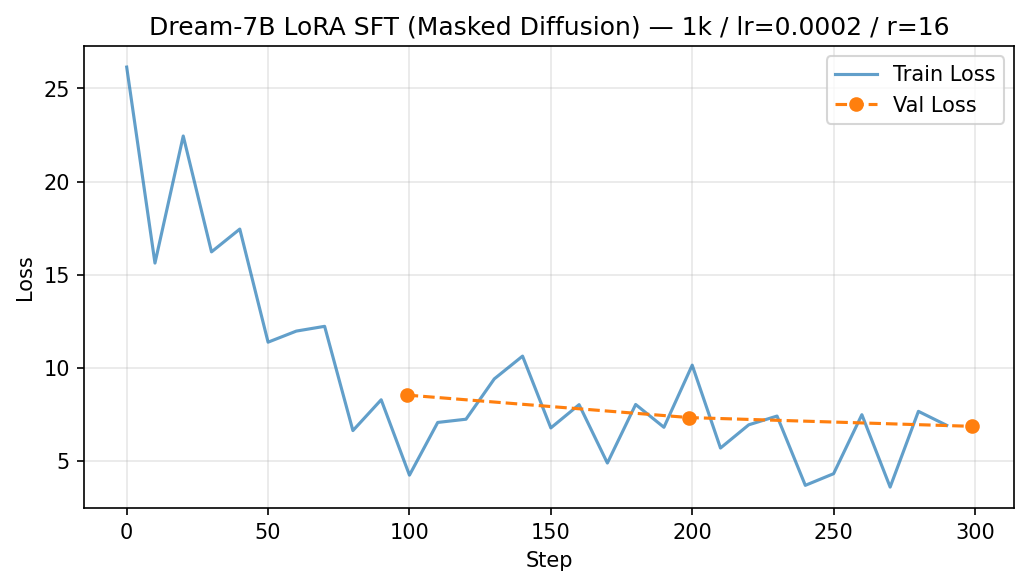
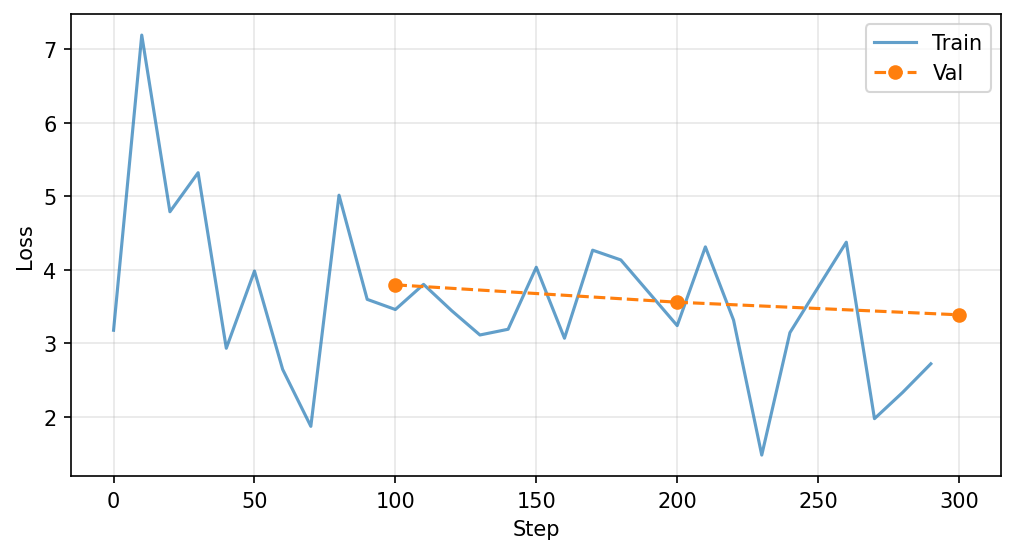
Fix Dream eval: use official diffusion_generate + transformers 4.46.2
Key changes:
- Downgraded transformers to 4.46.2 (Dream's supported version)
- Retrained both models on transformers 4.46.2
- Dream: chat_template format + response-only masking + 10k data
- Used official diffusion_generate() with entropy remasking algorithm
- Dream now generates actual Finnish (chrF 7-9 vs 5 before)
  - "Oletko varm[a]", "Mitä teet?", "Kiitos" observed
  - Still far below Qwen (chrF 33) and reference NMT (chrF 57)

Changed region(s): [[0.0, 0.0, 1.0, 0.9819], [0.2136, 0.3682, 0.9764, 0.8285]]

diff --git a/outputs/qwen/README.md b/outputs/qwen/README.md
@@ -1,0 +1,58 @@
+---
+base_model: Qwen/Qwen2.5-7B-Instruct
+library_name: transformers
+model_name: qwen
+tags:
+- generated_from_trainer
+- sft
+- trl
+licence: license
+---
+
+# Model Card for qwen
+
+This model is a fine-tuned version of [Qwen/Qwen2.5-7B-Instruct](https://huggingface.co/Qwen/Qwen2.5-7B-Instruct).
+It has been trained using [TRL](https://github.com/huggingface/trl).
+
+## Quick start
+
+```python
+from transformers import pipeline
+
+question = "If you had a time machine, but could only go to the past or the future once and never return, which would you choose and why?"
+generator = pipeline("text-generation", model="None", device="cuda")
+output = generator([{"role": "user", "content": question}], max_new_tokens=128, return_full_text=False)[0]
+print(output["generated_text"])
+```
+
+## Training procedure
+
+ 
+
+
+
+This model was trained with SFT.
+
+### Framework versions
+
+- TRL: 1.3.0
+- Transformers: 5.0.0
+- Pytorch: 2.10.0+cu128
+- Datasets: 4.8.5
+- Tokenizers: 0.22.2
+
+## Citations
+
+
+
+Cite TRL as:
+    
+```bibtex
+@software{vonwerra2020trl,
+  title   = {{TRL: Transformers Reinforcement Learning}},
+  author  = {von Werra, Leandro and Belkada, Younes and Tunstall, Lewis and Beeching, Edward and Thrush, Tristan and Lambert, Nathan and Huang, Shengyi and Rasul, Kashif and Gallouédec, Quentin},
+  license = {Apache-2.0},
+  url     = {https://github.com/huggingface/trl},
+  year    = {2020}
+}
+```
